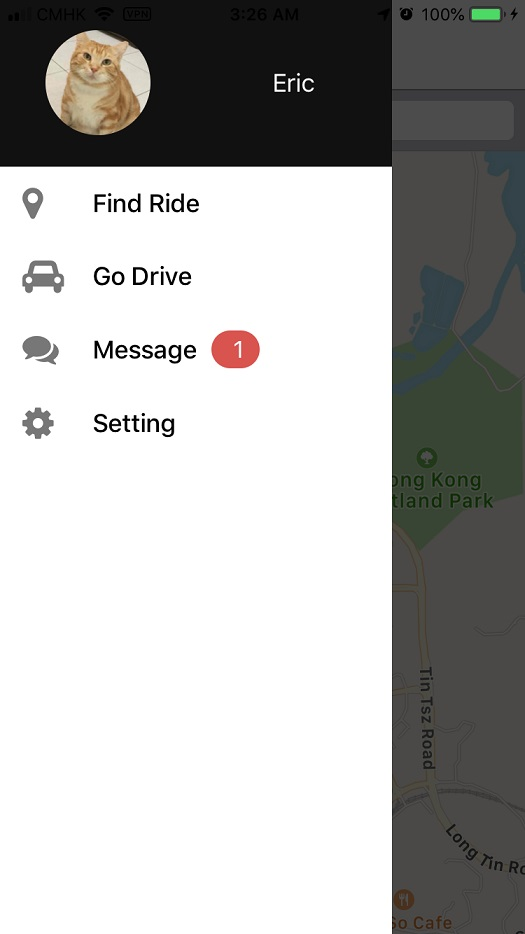
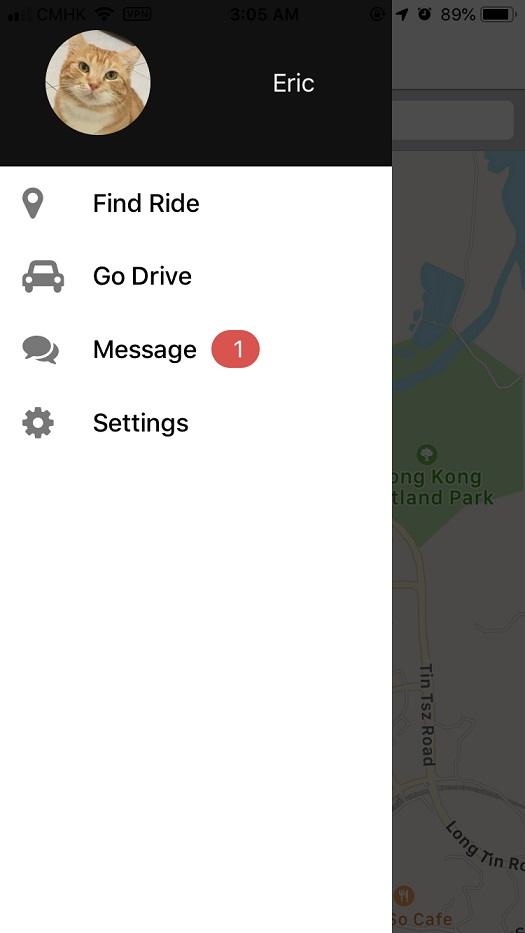
fix grammar

diff --git a/src/screens/settingPage/index.js b/src/screens/settingPage/index.js
@@ -31,7 +31,7 @@ class SettingPage extends Component {
             </Button>
           </Left>
           <Body>
-            <Title>Setting</Title>
+            <Title>Settings</Title>
           </Body>
           <Right />
         </Header>

diff --git a/src/screens/sidebar/index.js b/src/screens/sidebar/index.js
@@ -31,7 +31,7 @@ const datas = [
     unreadMessagesCount: null,
   },
   {
-    name: "Setting",
+    name: "Settings",
     route: "SettingPage",
     icon: "cog",
   },
